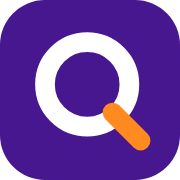
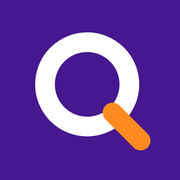
Quizci en app installable (PWA) : manifest, service worker, icônes, invitation d'installation Chrome et Safari

diff --git a/public/js/pwa.js b/public/js/pwa.js
@@ -1,0 +1,108 @@
+// Quizci en app installable : service worker + invitation à installer.
+// Script classique (pas de module), chargé avec "defer" sur toutes les pages.
+(function () {
+  if ("serviceWorker" in navigator) {
+    window.addEventListener("load", function () {
+      navigator.serviceWorker.register("/sw.js").catch(function () {
+        // Échec silencieux : le site reste utilisable normalement.
+      });
+    });
+  }
+
+  var DISMISS_KEY = "quizci_pwa_dismissed";
+  var path = location.pathname.replace(/\/+$/, "");
+  // Pas d'invitation sur l'écran projeté ni sur l'admin.
+  if (path === "/host" || path === "/host.html" || path === "/admin" || path === "/admin.html") return;
+
+  var standalone =
+    (window.matchMedia && window.matchMedia("(display-mode: standalone)").matches) ||
+    window.navigator.standalone === true;
+  if (standalone) return;
+
+  function dismissed() {
+    try { return !!localStorage.getItem(DISMISS_KEY); } catch (e) { return false; }
+  }
+  function remember() {
+    try { localStorage.setItem(DISMISS_KEY, "1"); } catch (e) {}
+  }
+  if (dismissed()) return;
+
+  var banner = null;
+
+  function injectStyle() {
+    if (document.getElementById("pwa-style")) return;
+    var s = document.createElement("style");
+    s.id = "pwa-style";
+    s.textContent =
+      ".pwa-bar{position:fixed;left:12px;right:12px;bottom:calc(12px + env(safe-area-inset-bottom));z-index:9999;" +
+      "max-width:420px;margin:0 auto;display:flex;align-items:center;gap:12px;padding:12px;border-radius:18px;" +
+      "background:#2e1a73;color:#fff;border:1px solid rgba(255,255,255,.14);box-shadow:0 12px 32px rgba(0,0,0,.4);" +
+      "font-family:Inter,system-ui,-apple-system,'Segoe UI',Roboto,sans-serif}" +
+      ".pwa-bar img{width:44px;height:44px;border-radius:12px;flex:none}" +
+      ".pwa-bar .t{flex:1;min-width:0;font-size:.82rem;line-height:1.3;color:#bdb4ea}" +
+      ".pwa-bar .t b{display:block;color:#fff;font-size:.95rem}" +
+      ".pwa-bar button{border:0;font-family:inherit;cursor:pointer}" +
+      ".pwa-bar .go{flex:none;background:#ff8a1f;color:#fff;font-weight:700;font-size:.9rem;padding:10px 16px;border-radius:12px}" +
+      ".pwa-bar .x{flex:none;background:transparent;color:#bdb4ea;font-size:1.3rem;line-height:1;padding:4px 6px}";
+    document.head.appendChild(s);
+  }
+
+  function show(html, onAction) {
+    if (banner) return;
+    injectStyle();
+    banner = document.createElement("div");
+    banner.className = "pwa-bar";
+    banner.setAttribute("role", "dialog");
+    banner.innerHTML =
+      '<img src="/icon-192.png" alt="">' + html + '<button type="button" class="x" aria-label="Fermer">&times;</button>';
+    banner.querySelector(".x").addEventListener("click", function () {
+      remember();
+      hide();
+    });
+    var go = banner.querySelector(".go");
+    if (go && onAction) go.addEventListener("click", onAction);
+    document.body.appendChild(banner);
+  }
+
+  function hide() {
+    if (banner && banner.parentNode) banner.parentNode.removeChild(banner);
+    banner = null;
+  }
+
+  // Chrome / Android / ordinateur : bouton d'installation natif.
+  var deferred = null;
+  window.addEventListener("beforeinstallprompt", function (e) {
+    e.preventDefault();
+    deferred = e;
+    show(
+      '<div class="t"><b>Installer Quizci</b>Accès direct depuis ton écran d’accueil</div>' +
+        '<button type="button" class="go">Installer</button>',
+      function () {
+        if (!deferred) return;
+        deferred.prompt();
+        deferred.userChoice.then(function () {
+          deferred = null;
+          hide();
+        });
+      }
+    );
+  });
+  window.addEventListener("appinstalled", function () {
+    deferred = null;
+    hide();
+  });
+
+  // iPhone / iPad (Safari) : pas de bouton natif, on explique le geste.
+  var ua = navigator.userAgent;
+  var isIOS = /iPad|iPhone|iPod/.test(ua) || (navigator.platform === "MacIntel" && navigator.maxTouchPoints > 1);
+  var isSafari = /Safari/.test(ua) && !/CriOS|FxiOS|EdgiOS|OPiOS|GSA/.test(ua);
+  if (isIOS && isSafari) {
+    window.addEventListener("load", function () {
+      setTimeout(function () {
+        show(
+          '<div class="t"><b>Installer Quizci</b>Touche <span aria-label="Partager">⬆ Partager</span> puis « Sur l’écran d’accueil »</div>'
+        );
+      }, 2500);
+    });
+  }
+})();

diff --git a/public/sw.js b/public/sw.js
@@ -1,0 +1,89 @@
+// Service worker Quizci
+// Quizci est un jeu en direct : les parties passent par Firebase (Firestore, Auth), jamais mis en cache ici.
+// - Pages et scripts/styles : réseau d'abord (toujours la dernière version), repli sur le cache si hors-ligne.
+// - Images et icônes : cache d'abord.
+// - Tout ce qui vient d'un autre domaine (Firebase, Google, CDN) passe directement au réseau.
+
+const CACHE_VERSION = "quizci-v1";
+const OFFLINE_URL = "/offline.html";
+
+const PRECACHE = [
+  "/offline.html",
+  "/manifest.webmanifest",
+  "/icon-192.png",
+  "/icon-512.png",
+  "/favicon.svg",
+];
+
+self.addEventListener("install", (event) => {
+  event.waitUntil(
+    caches
+      .open(CACHE_VERSION)
+      .then((cache) => cache.addAll(PRECACHE))
+      .then(() => self.skipWaiting())
+  );
+});
+
+self.addEventListener("activate", (event) => {
+  event.waitUntil(
+    caches
+      .keys()
+      .then((keys) =>
+        Promise.all(keys.filter((k) => k !== CACHE_VERSION).map((k) => caches.delete(k)))
+      )
+      .then(() => self.clients.claim())
+  );
+});
+
+const isImage = (url) => /\.(png|jpg|jpeg|svg|webp|ico|woff2?)$/.test(url.pathname);
+const isCode = (url) => /\.(js|css)$/.test(url.pathname);
+
+function networkFirst(request, fallback) {
+  return fetch(request)
+    .then((response) => {
+      if (response && response.ok) {
+        const copy = response.clone();
+        caches.open(CACHE_VERSION).then((cache) => cache.put(request, copy));
+      }
+      return response;
+    })
+    .catch(() => caches.match(request).then((cached) => cached || fallback()));
+}
+
+self.addEventListener("fetch", (event) => {
+  const { request } = event;
+  if (request.method !== "GET") return;
+
+  const url = new URL(request.url);
+  if (url.origin !== self.location.origin) return;
+
+  // L'espace admin n'est jamais mis en cache.
+  if (url.pathname.startsWith("/admin")) return;
+
+  if (request.mode === "navigate") {
+    event.respondWith(networkFirst(request, () => caches.match(OFFLINE_URL)));
+    return;
+  }
+
+  if (isCode(url)) {
+    event.respondWith(networkFirst(request, () => Response.error()));
+    return;
+  }
+
+  if (isImage(url) || url.pathname === "/manifest.webmanifest") {
+    event.respondWith(
+      caches.match(request).then((cached) => {
+        const network = fetch(request)
+          .then((response) => {
+            if (response && response.ok) {
+              const copy = response.clone();
+              caches.open(CACHE_VERSION).then((cache) => cache.put(request, copy));
+            }
+            return response;
+          })
+          .catch(() => cached);
+        return cached || network;
+      })
+    );
+  }
+});

diff --git a/public/offline.html b/public/offline.html
@@ -1,0 +1,30 @@
+<!doctype html>
+<html lang="fr">
+<head>
+<meta charset="utf-8">
+<meta name="viewport" content="width=device-width,initial-scale=1,viewport-fit=cover">
+<title>Quizci · Hors connexion</title>
+<meta name="theme-color" content="#46178F">
+<link rel="icon" type="image/svg+xml" href="/favicon.svg">
+<style>
+  html,body{margin:0;height:100%}
+  body{display:flex;align-items:center;justify-content:center;padding:24px;box-sizing:border-box;text-align:center;
+    background:linear-gradient(160deg,#150a42,#2a0f6b);color:#fff;
+    font-family:"Inter",system-ui,-apple-system,"Segoe UI",Roboto,sans-serif}
+  .box{max-width:360px}
+  .logo{font-size:2.2rem;font-weight:800;margin-bottom:12px}
+  .logo b{color:#e8a400}
+  p{color:#bdb4ea;line-height:1.5;margin:0 0 22px}
+  button{border:0;border-radius:14px;padding:14px 26px;font-size:1rem;font-weight:700;color:#fff;
+    background:#ff8a1f;cursor:pointer;font-family:inherit}
+</style>
+</head>
+<body>
+  <div class="box">
+    <div class="logo">Quiz<b>ci</b></div>
+    <h1 style="font-size:1.3rem;margin:0 0 10px">Pas de connexion</h1>
+    <p>Quizci a besoin d'Internet pour jouer en direct. Vérifie ta connexion puis réessaie.</p>
+    <button type="button" onclick="location.href='/'">Réessayer</button>
+  </div>
+</body>
+</html>

diff --git a/public/host.html b/public/host.html
@@ -10,6 +10,13 @@
 <link rel="stylesheet" href="css/style.css">
 <script src="https://cdnjs.cloudflare.com/ajax/libs/pdf.js/3.11.174/pdf.min.js"></script>
 <script src="https://cdnjs.cloudflare.com/ajax/libs/qrcodejs/1.0.0/qrcode.min.js"></script>
+<link rel="manifest" href="/manifest.webmanifest">
+<meta name="theme-color" content="#46178F">
+<meta name="mobile-web-app-capable" content="yes">
+<meta name="apple-mobile-web-app-capable" content="yes">
+<meta name="apple-mobile-web-app-title" content="Quizci">
+<meta name="apple-mobile-web-app-status-bar-style" content="black-translucent">
+<script src="/js/pwa.js" defer></script>
 </head>
 <body>
 <div class="wrap wide">

diff --git a/public/teacher.html b/public/teacher.html
@@ -6,6 +6,14 @@
 <title>Quizci – Espace créateur</title>
 <link rel="icon" href="data:,">
 <link rel="stylesheet" href="css/app.css">
+<link rel="manifest" href="/manifest.webmanifest">
+<meta name="theme-color" content="#46178F">
+<link rel="apple-touch-icon" href="/apple-touch-icon.png">
+<meta name="mobile-web-app-capable" content="yes">
+<meta name="apple-mobile-web-app-capable" content="yes">
+<meta name="apple-mobile-web-app-title" content="Quizci">
+<meta name="apple-mobile-web-app-status-bar-style" content="black-translucent">
+<script src="/js/pwa.js" defer></script>
 </head>
 <body>
 <main class="wrap">

diff --git a/public/a-propos.html b/public/a-propos.html
@@ -8,6 +8,13 @@
 <link rel="icon" type="image/svg+xml" href="/favicon.svg">
 <meta name="theme-color" content="#46178F">
 <link rel="stylesheet" href="css/app.css">
+<link rel="manifest" href="/manifest.webmanifest">
+<link rel="apple-touch-icon" href="/apple-touch-icon.png">
+<meta name="mobile-web-app-capable" content="yes">
+<meta name="apple-mobile-web-app-capable" content="yes">
+<meta name="apple-mobile-web-app-title" content="Quizci">
+<meta name="apple-mobile-web-app-status-bar-style" content="black-translucent">
+<script src="/js/pwa.js" defer></script>
 </head>
 <body>
 <main class="wrap center">

diff --git a/public/index.html b/public/index.html
@@ -31,6 +31,12 @@
 <link rel="modulepreload" href="https://www.gstatic.com/firebasejs/10.14.1/firebase-firestore.js">
 <link rel="modulepreload" href="js/fb.js">
 <link rel="stylesheet" href="css/style.css">
+<link rel="manifest" href="/manifest.webmanifest">
+<meta name="mobile-web-app-capable" content="yes">
+<meta name="apple-mobile-web-app-capable" content="yes">
+<meta name="apple-mobile-web-app-title" content="Quizci">
+<meta name="apple-mobile-web-app-status-bar-style" content="black-translucent">
+<script src="/js/pwa.js" defer></script>
 </head>
 <body>
 <div class="wrap center">

diff --git a/public/admin.html b/public/admin.html
@@ -46,6 +46,13 @@
   .rk .p{flex:1;min-width:0;overflow-wrap:anywhere;font-weight:700}
   .rk .s{font-weight:800;white-space:nowrap}
 </style>
+<link rel="manifest" href="/manifest.webmanifest">
+<meta name="theme-color" content="#46178F">
+<meta name="mobile-web-app-capable" content="yes">
+<meta name="apple-mobile-web-app-capable" content="yes">
+<meta name="apple-mobile-web-app-title" content="Quizci">
+<meta name="apple-mobile-web-app-status-bar-style" content="black-translucent">
+<script src="/js/pwa.js" defer></script>
 </head>
 <body>
 <div class="wrap wide">
